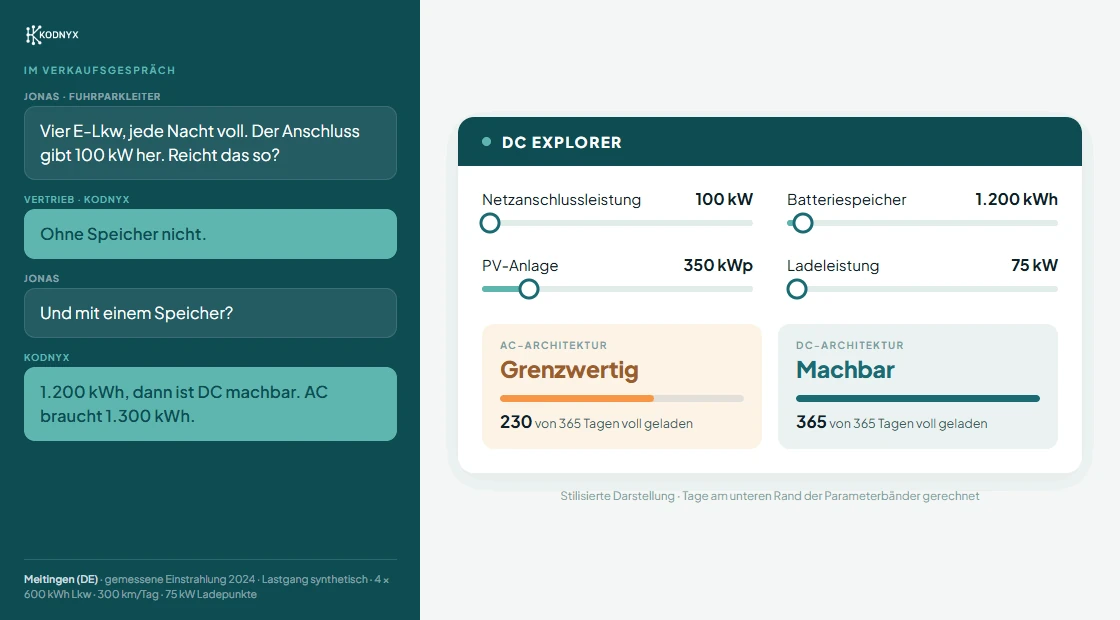
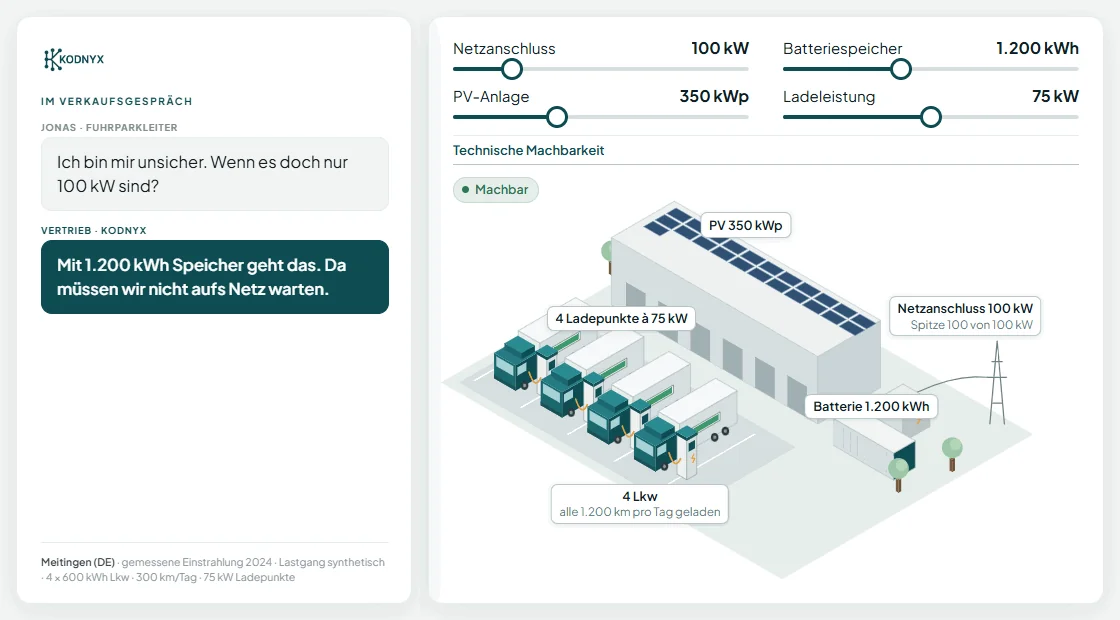
Show the new sales-call GIF and where the DC Explorer runs
- "So funktioniert's": the GIF now shows a 100 kW grid connection
  made feasible with storage (DE/EN); stills and alt texts updated
- New point: the DC Explorer and site data run on Hetzner servers
  in Nuremberg

diff --git a/index.html b/index.html
@@ -401,10 +401,10 @@
     </h2>
     <figure class="demo">
       <div class="demo-frame">
-        <img class="demo-img de" src="assets/explorer-gespraech-de.gif?v=2" data-poster="assets/explorer-gespraech-de-poster.webp?v=2" width="1120" height="620" loading="lazy"
-             alt="Nachgestelltes Verkaufsgespräch. Links fragt ein Fuhrparkleiter, ob der Netzanschluss für vier E-Lkw reicht. Rechts rechnet der DC Explorer. Der Speicher wächst, bis DC machbar ist. AC bleibt grenzwertig." />
-        <img class="demo-img en" src="assets/explorer-gespraech-en.gif?v=2" data-poster="assets/explorer-gespraech-en-poster.webp?v=2" width="1120" height="620" loading="lazy"
-             alt="Re-enacted sales conversation. On the left, a fleet manager asks whether the grid connection is enough for four electric trucks. On the right, the DC Explorer calculates. The battery grows until DC is feasible. AC stays marginal." />
+        <img class="demo-img de" src="assets/explorer-gespraech-de.gif?v=3" data-poster="assets/explorer-gespraech-de-poster.webp?v=3" width="1120" height="620" loading="lazy"
+             alt="Nachgestelltes Verkaufsgespräch. Links fragt ein Fuhrparkleiter, was passiert, wenn der Netzanschluss für vier E-Lkw nur 100 kW hat. Rechts rechnet der DC Explorer. Der Speicher wächst, bis der Standort machbar ist: mit 1.200 kWh." />
+        <img class="demo-img en" src="assets/explorer-gespraech-en.gif?v=3" data-poster="assets/explorer-gespraech-en-poster.webp?v=3" width="1120" height="620" loading="lazy"
+             alt="Re-enacted sales conversation. On the left, a fleet manager asks what happens if the grid connection for four electric trucks is only 100 kW. On the right, the DC Explorer calculates. The battery grows until the site is feasible with 1,200 kWh." />
         <button class="demo-pause" type="button" data-paused="false">
           <span class="lbl-pause"><span class="de">Animation anhalten</span><span class="en">Pause animation</span></span>
           <span class="lbl-play"><span class="de">Animation abspielen</span><span class="en">Play animation</span></span>
@@ -428,6 +428,10 @@
         <div class="how-point">
           <h3><span class="de">AC und DC im selben Modell.</span><span class="en">AC and DC in the same model.</span></h3>
           <p><span class="de">Gleiches Jahr, gleiche Regeln.</span><span class="en">Same year, same rules.</span></p>
+        </div>
+        <div class="how-point">
+          <h3><span class="de">Betrieben in Europa.</span><span class="en">Run in Europe.</span></h3>
+          <p><span class="de">Der DC Explorer und Ihre Standortdaten liegen auf Servern von Hetzner in Nürnberg.</span><span class="en">The DC Explorer and your site data sit on Hetzner servers in Nuremberg, Germany.</span></p>
         </div>
       </div>
       <div class="how-result">
